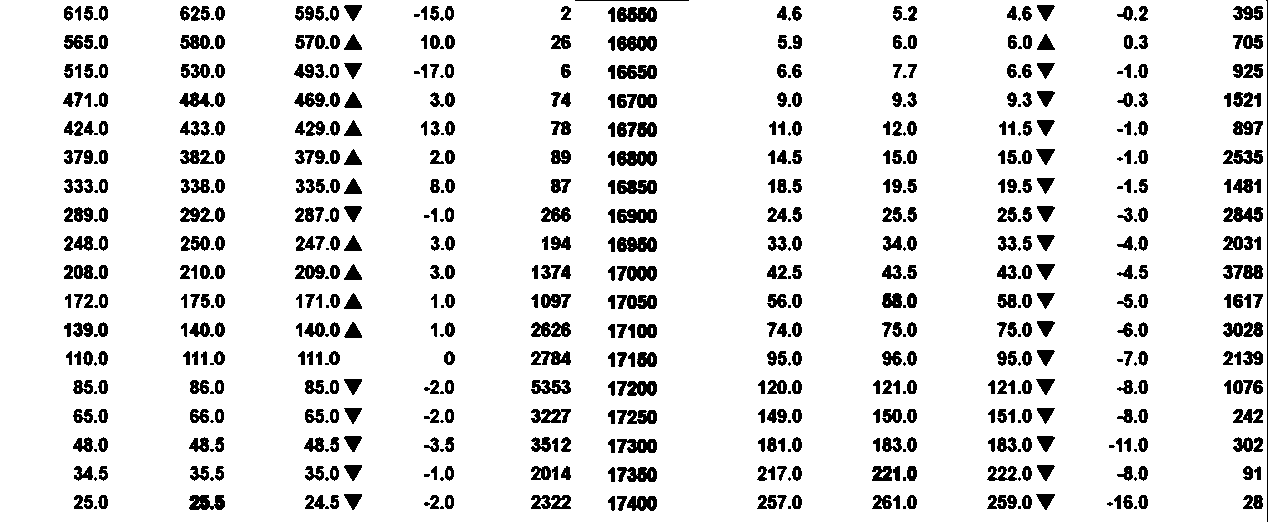
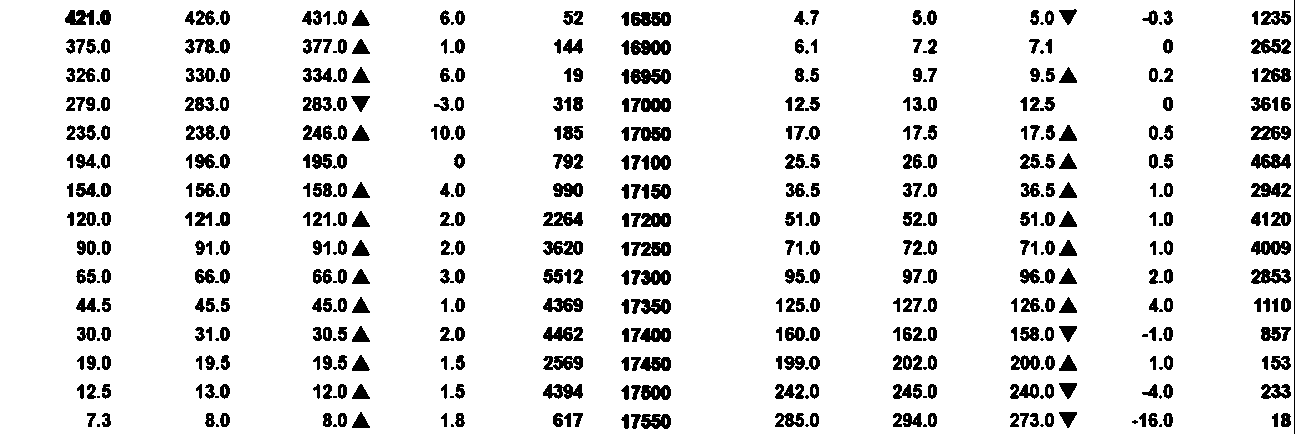
no message

diff --git a/src/main/java/proc/StrategyAnalyzer.java b/src/main/java/proc/StrategyAnalyzer.java
@@ -15,10 +15,10 @@ import vo.VerticalSpreadStrategy;
 public class StrategyAnalyzer {
 
 	// Strategy Conditions
-	static BigDecimal spot = BigDecimal.valueOf(17150);
-	static BigDecimal g_minSpreadLimit = new BigDecimal(-100);
-	static BigDecimal g_minProfitLimit = new BigDecimal(150);
-	static BigDecimal g_maxLossLimit = new BigDecimal(100);
+	static BigDecimal spot = BigDecimal.valueOf(17260);
+	static BigDecimal g_minSpreadLimit = new BigDecimal(-60);
+	static BigDecimal g_minProfitLimit = new BigDecimal(30);
+	static BigDecimal g_maxLossLimit = new BigDecimal(60);
 	static Integer g_maxMargin = 50000;
 
 	static BigDecimal g_defaultPositionLoss = BigDecimal.valueOf(1);
